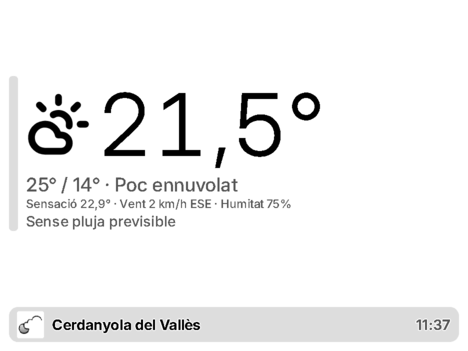
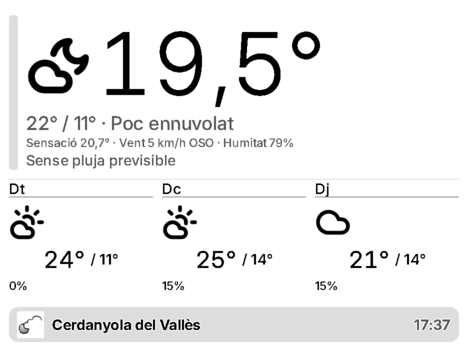
Cuarto de pantalla en TRMNX: añade los 3 días siguientes
Bloque «hidden lg:visible» con día, icono, máxima/mínima y probabilidad de lluvia
de mañana y los dos días siguientes; en la pantalla normal no cambia nada.
Capturas de la X y README actualizados.

diff --git a/README.es.md b/README.es.md
@@ -42,7 +42,7 @@ Proyecto personal y no oficial. Complementa el plugin del tiempo en directo [met
 
 Simulación local con el CSS del framework (`screen--color-4bwry`) y datos de ejemplo con lluvia y tormenta; el renderizador de TRMNL no muestra el color.
 
-Capturas renderizadas por TRMNL. En la TRMNL X (clases `lg:`) los iconos y textos se amplían y aparece información adicional: sol, UV, racha, lluvia de 24 h, viento diario y humedad.
+Capturas renderizadas por TRMNL. En la TRMNL X (clases `lg:`) los iconos y textos se amplían y aparece información adicional: sol, UV, racha, lluvia de 24 h, viento diario y humedad; en el cuarto de pantalla, los 3 días siguientes.
 
 
 ## Qué muestra

diff --git a/README.md b/README.md
@@ -42,7 +42,7 @@ Projecte personal i no oficial. Complementa el plugin del temps en directe [mete
 
 Simulació local amb el CSS del framework (`screen--color-4bwry`) i dades d'exemple amb pluja i tempesta; el renderitzador de TRMNL no mostra el color.
 
-Captures renderitzades per TRMNL. A la TRMNL X (classes `lg:`) les icones i els textos s'amplien i apareix informació addicional: sol, UV, ratxa, pluja de 24 h, vent diari i humitat.
+Captures renderitzades per TRMNL. A la TRMNL X (classes `lg:`) les icones i els textos s'amplien i apareix informació addicional: sol, UV, ratxa, pluja de 24 h, vent diari i humitat; al quart de pantalla, els 3 dies següents.
 
 
 ## Què mostra
